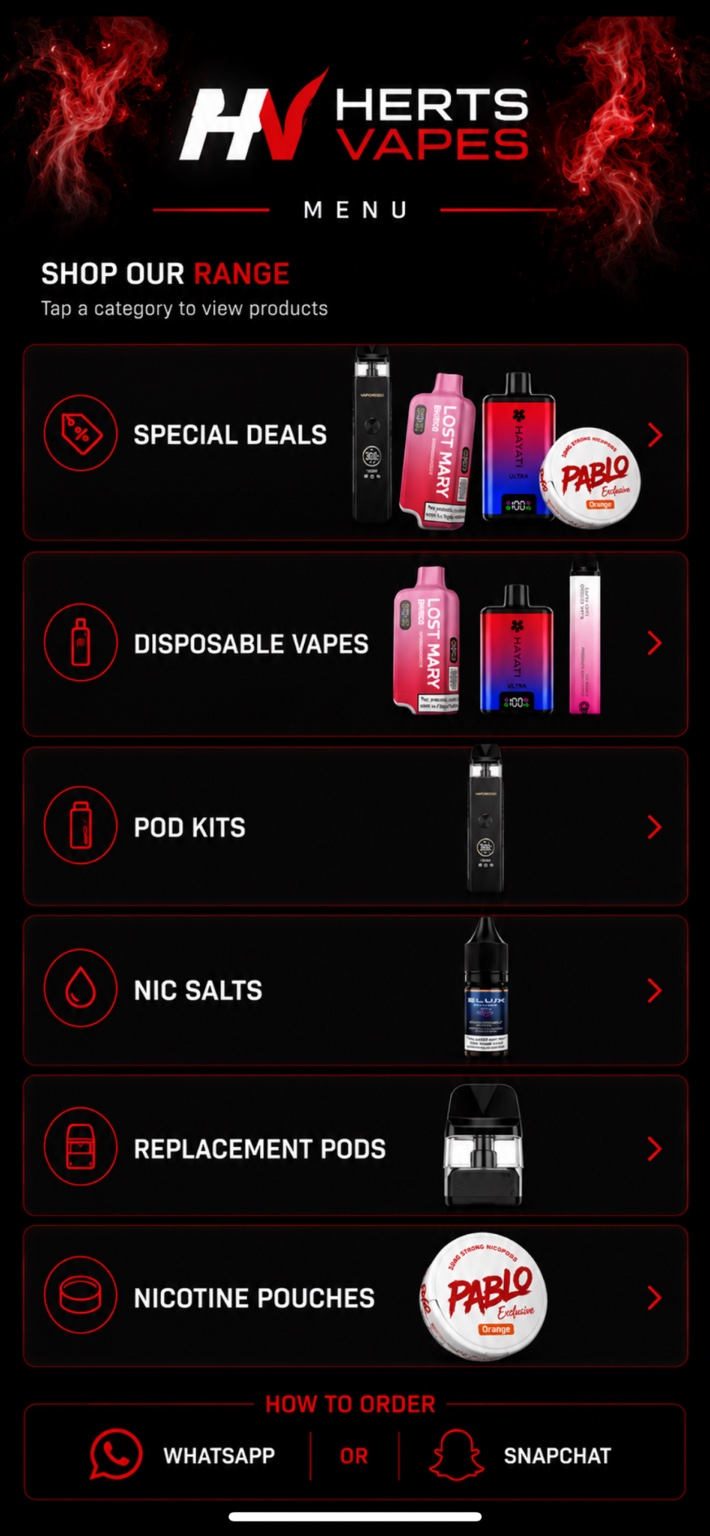
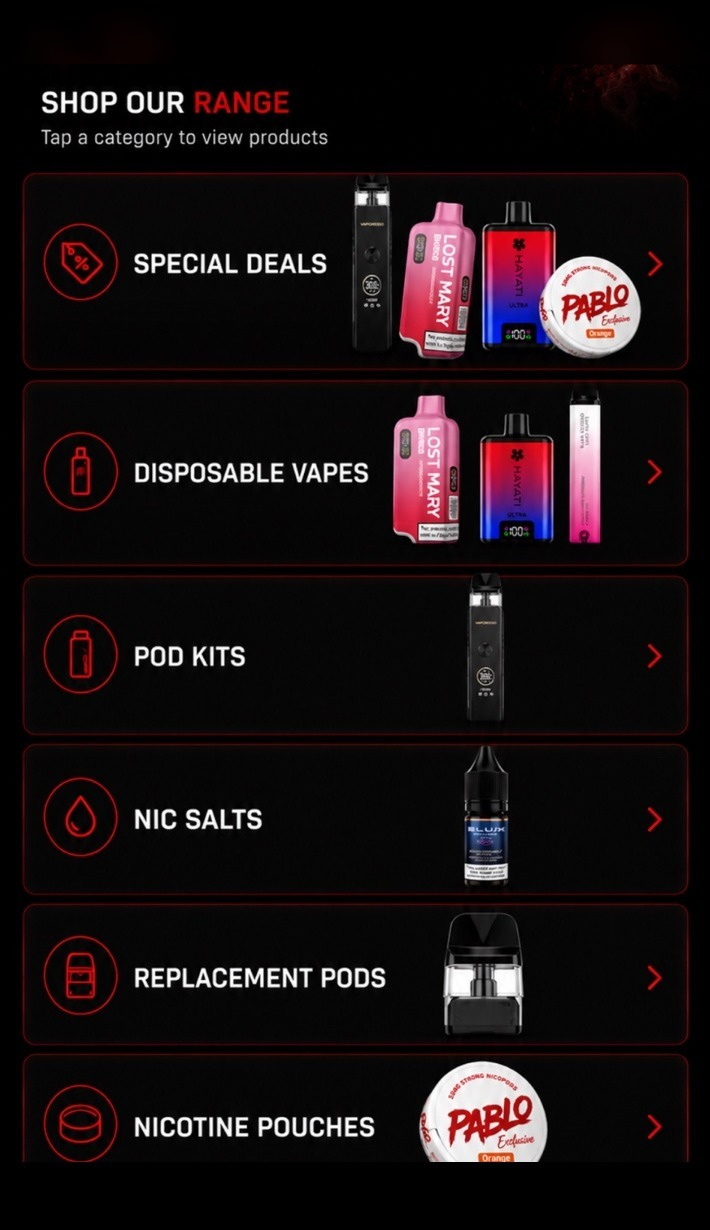
Add files via upload

diff --git a/style.css b/style.css
@@ -1780,188 +1780,126 @@ button, a {
 
 
 /* ==============================
-   Herts Vapes Version 3.4
-   Stability fixes + cleaner order flow
+   Herts Vapes V3.4 final polish
+   Clean menu artwork + stronger order flow
    ============================== */
 
-/* Critical fix: long flavour lists such as the 25 Nic Salts must never be clipped on mobile. */
-.product-card.open .expand-content {
-  max-height: 2600px;
+.section-blend {
+  height: 8svh;
+  margin-top: -6svh;
+  margin-bottom: -2svh;
+  background:
+    radial-gradient(circle at 50% 0%, rgba(226,21,33,.16), transparent 46%),
+    linear-gradient(180deg, rgba(2,2,2,0), rgba(2,2,2,.82) 54%, #020202 100%);
 }
 
-/* Keep HV Bulk as a low-friction menu-only route, not a full visible section. */
+.menu-visual {
+  margin-top: -1svh;
+  opacity: .42;
+  transform: translateY(8px) scale(.995);
+  filter: brightness(.70) saturate(.90);
+}
+
+.menu-visual.reveal {
+  opacity: 1;
+  transform: translateY(0) scale(1);
+  filter: brightness(1) saturate(1);
+}
+
+/* Remapped against the cleaned menu.jpg artwork. */
+.category-hit {
+  left: 3%;
+  width: 94%;
+  height: 10.8%;
+  border-radius: 23px;
+}
+.category-hit.special { top: 17.7%; }
+.category-hit.disposable { top: 34.9%; }
+.category-hit.podkits { top: 49.7%; }
+.category-hit.salts { top: 63.0%; }
+.category-hit.pods { top: 75.7%; }
+.category-hit.pouches { top: 87.6%; }
+
+/* The cleaned menu artwork no longer has WhatsApp/Snapchat buttons at the bottom. */
+.menu-whatsapp,
+.menu-snapchat {
+  display: none;
+}
+
 .bulk-menu-entry {
-  padding: 4px 16px 20px;
-}
-
-.bulk-category-button {
-  border-color: rgba(255,37,49,.34);
-  background:
-    radial-gradient(circle at 94% 0%, rgba(255,37,49,.14), transparent 36%),
-    linear-gradient(180deg, rgba(255,255,255,.038), rgba(255,255,255,.010));
-  box-shadow: 0 12px 28px rgba(0,0,0,.28), 0 0 10px rgba(226,21,33,.045);
-}
-
-/* Hide the duplicate logo area on the menu artwork without moving the image or hotspot map. */
-.menu-visual::before {
-  content: "";
-  position: absolute;
-  left: 0;
-  right: 0;
-  top: 0;
-  height: 19.5%;
-  z-index: 2;
-  pointer-events: none;
-  background:
-    radial-gradient(circle at 50% 18%, rgba(226,21,33,.10), transparent 38%),
-    linear-gradient(180deg, #020202 0%, #020202 66%, rgba(2,2,2,.72) 86%, rgba(2,2,2,0) 100%);
-}
-
-/* Make sure category/ordering hotspots stay above the visual logo cover. */
-.menu-visual .hotspot {
-  z-index: 3;
-}
-
-/* Cleaner specialist bulk panel. */
-.bulk-panel-card {
-  text-align: left;
-  padding: 28px 20px 22px;
-  background:
-    radial-gradient(circle at 92% 0%, rgba(255,37,49,.18), transparent 42%),
-    linear-gradient(180deg, rgba(255,255,255,.052), rgba(255,255,255,.014));
-}
-
-.bulk-panel-card h3 {
-  margin-left: 0;
-  margin-right: 0;
-  font-size: 28px;
-}
-
-.bulk-panel-card .bulk-button {
-  max-width: none;
-  text-align: center;
-}
-
-.empty-cart {
-  padding: 26px 8px;
-}
-
-/* ==============================
-   Herts Vapes V3.4.1 corrections
-   Fixes from live check: no messy menu-logo cover, subtle HV Bulk trigger, true 2-column flavour lists
-   ============================== */
-
-/* Do NOT cover the menu artwork with a fake block. Until menu.jpg is edited properly,
-   the original menu logo is safer and cleaner than a visible cover patch. */
-.menu-visual::before {
-  content: none !important;
-  display: none !important;
-}
-
-/* HV Bulk should not feel like a full section for normal customers. Keep only a small specialist trigger. */
-.bulk-menu-entry {
-  padding: 8px 16px 18px !important;
+  padding: 12px 16px 24px;
   background: #020202;
 }
 
 .bulk-category-button {
-  display: flex;
-  align-items: center;
-  justify-content: space-between;
-  gap: 12px;
-  min-height: 54px;
-  border-radius: 18px !important;
-  padding: 13px 14px !important;
-  border-color: rgba(255,255,255,.10) !important;
-  background: rgba(255,255,255,.025) !important;
-  box-shadow: none !important;
-}
-
-.bulk-category-button .bulk-kicker {
-  margin: 0 !important;
-  padding: 5px 8px !important;
-  border-color: rgba(255,37,49,.28) !important;
-  background: rgba(226,21,33,.08) !important;
-  font-size: 10px !important;
-  letter-spacing: .12em !important;
-  white-space: nowrap;
+  min-height: 68px;
+  border-radius: 20px;
+  border-color: rgba(255,37,49,.42);
+  background:
+    radial-gradient(circle at 92% 0%, rgba(226,21,33,.14), transparent 38%),
+    linear-gradient(180deg, rgba(255,255,255,.045), rgba(255,255,255,.012));
+  box-shadow: 0 12px 30px rgba(0,0,0,.32), inset 0 0 0 1px rgba(226,21,33,.08);
 }
 
 .bulk-category-button strong {
-  flex: 1 1 auto;
-  font-size: 14px !important;
-  letter-spacing: .02em !important;
-  line-height: 1.1 !important;
-  text-transform: uppercase;
+  font-size: 18px;
 }
 
 .bulk-category-button em {
-  display: none !important;
+  font-size: 12px;
 }
 
-.bulk-category-button::after {
-  content: "›";
-  color: var(--red-bright);
-  font-size: 24px;
-  line-height: 1;
-  font-weight: 900;
-}
-
-/* Keep the HV Bulk content as a dedicated clicked panel with a slightly more professional tone. */
-.bulk-panel-card {
-  text-align: left !important;
-  border-color: rgba(255,37,49,.46) !important;
-  background:
-    radial-gradient(circle at 100% 0%, rgba(255,37,49,.16), transparent 34%),
-    linear-gradient(180deg, rgba(255,255,255,.050), rgba(255,255,255,.014)) !important;
-}
-
-.bulk-panel-card h3 {
-  margin-left: 0 !important;
-  margin-right: 0 !important;
-  max-width: none !important;
-  font-size: 28px !important;
-}
-
-.panel-bulk-points {
-  max-width: none !important;
-}
-
-.bulk-panel-card .bulk-button {
-  margin-left: 0 !important;
-  margin-right: 0 !important;
-  max-width: none !important;
-  text-align: center;
-}
-
-/* Products with lots of flavours should stay in two columns on mobile as requested. */
+/* Keep long flavour lists compact and visible. */
 .flavour-list.two-col {
-  grid-template-columns: 1fr 1fr !important;
-  column-gap: 10px !important;
-  row-gap: 8px !important;
+  grid-template-columns: repeat(2, minmax(0, 1fr));
+  column-gap: 11px;
+  row-gap: 7px;
 }
 
 .flavour-list.two-col .add-flavour {
-  min-height: 46px;
-  align-items: flex-start;
-  gap: 7px;
+  min-height: 44px;
   font-size: 12.5px;
-  line-height: 1.15;
-  padding: 9px 0;
+  line-height: 1.18;
 }
 
 .flavour-list.two-col .add-flavour span {
-  font-size: 9.5px;
-  letter-spacing: .08em;
-  padding-top: 2px;
+  font-size: 10px;
 }
 
-@media (max-width: 360px) {
+.product-card.open .expand-content {
+  max-height: 1800px;
+}
+
+/* Make the cart easier to notice without blocking the menu. */
+.cart-float {
+  right: max(18px, env(safe-area-inset-right));
+  bottom: calc(22px + env(safe-area-inset-bottom));
+  width: 66px;
+  height: 66px;
+  border-color: rgba(255,37,49,.78);
+  box-shadow: 0 20px 44px rgba(0,0,0,.55), 0 0 28px rgba(226,21,33,.30);
+}
+
+.cart-float.has-items {
+  box-shadow: 0 22px 48px rgba(0,0,0,.58), 0 0 34px rgba(226,21,33,.42);
+}
+
+.empty-cart {
+  line-height: 1.55;
+}
+
+@media (max-width: 420px) {
   .flavour-list.two-col {
-    column-gap: 8px !important;
+    grid-template-columns: repeat(2, minmax(0, 1fr));
+    column-gap: 9px;
   }
 
   .flavour-list.two-col .add-flavour {
-    font-size: 11.6px;
+    font-size: 12px;
+  }
+
+  .cart-float {
+    width: 64px;
+    height: 64px;
   }
 }

diff --git a/script.js b/script.js
@@ -98,13 +98,13 @@ const inventory = {
   bulk: {
     title: "HV Bulk",
     type: "bulk",
-    intro: "For larger orders, reserved stock and better prices.",
+    intro: "Save big on larger pre-orders.",
     points: [
       "Manufacturer-sealed boxes",
-      "Wider range than the everyday menu",
-      "Reserved specifically for your order"
+      "A much wider range than our in-stock menu",
+      "Reserved exclusively for your order"
     ],
-    minimum: "Bulk pre-orders available from £100.",
+    minimum: "Available on bulk pre-orders from £100.",
     link: "https://wa.me/447885752823?text=Hi%20Herts%20Vapes%2C%0A%0AI%27m%20interested%20in%20your%20bulk%20prices.%0A%0AProducts%20I%27m%20interested%20in%3A%0A%0A%E2%80%A2"
   }
 };
@@ -249,7 +249,7 @@ function renderBulkCategory(category) {
   return `
     <article class="bulk-panel-card">
       <p class="panel-eyebrow">HV BULK</p>
-      <h3>Wholesale & Large Orders</h3>
+      <h3>Save Big on Larger Orders</h3>
       <p class="bulk-intro">${escapeHtml(category.intro)}</p>
       <div class="bulk-points panel-bulk-points">
         ${category.points.map(point => `<div class="bulk-point">${escapeHtml(point)}</div>`).join("")}
@@ -419,31 +419,33 @@ function renderCart() {
 
 function buildOrderMessage() {
   if (!cart.length) {
-    return "Hi, I'd like to place an order.";
+    return "Hi,\n\nI'd like to place an order.\n\nCollection / Delivery:";
   }
 
-  const normalLines = cart
-    .filter(item => !item.prompts || !item.prompts.length)
-    .map(item => {
-      const optionPart = item.option ? ` - ${item.option}` : "";
-      return `• ${item.name}${optionPart} ×${item.qty}`;
-    });
+  const lines = cart.map(item => {
+    const optionLine = item.option ? ` - ${item.option}` : "";
+    return `• ${item.name}${optionLine} ×${item.qty}`;
+  }).join("\n");
 
-  const promptLines = cart
+  const promptSections = cart
     .filter(item => item.prompts && item.prompts.length)
-    .flatMap(item => {
-      const lines = [`• ${item.name} ×${item.qty}`];
+    .map(item => {
+      const header = `\n${item.name} ×${item.qty}`;
+      const promptLines = [];
       for (let i = 1; i <= item.qty; i += 1) {
-        if (item.qty > 1) lines.push(`  Bundle ${i}:`);
+        if (item.qty > 1) promptLines.push(`Bundle ${i}:`);
         item.prompts.forEach(prompt => {
-          lines.push(`${item.qty > 1 ? "  " : ""}${prompt}:`);
+          promptLines.push(`${prompt}:`);
         });
       }
-      return lines;
+      return `${header}\n${promptLines.join("\n")}`;
     });
 
-  const lines = [...normalLines, ...promptLines].join("\n");
-  return `Hi,\n\nI'd like:\n\n${lines}\n\nCollection / Delivery:`;
+  const promptText = promptSections.length
+    ? `\n${promptSections.join("\n")}`
+    : "";
+
+  return `Hi,\n\nI'd like:\n\n${lines}${promptText}\n\nCollection / Delivery:`;
 }
 
 async function copyOrderMessage() {
@@ -521,6 +523,6 @@ cartWhatsapp.addEventListener("click", async () => {
 cartSnapchat.addEventListener("click", async () => {
   softTap();
   await copyOrderMessage();
-  showToast("✓ Order copied. Paste it into Snapchat.");
+  showToast("✓ Order copied. Paste into Snapchat.");
   setTimeout(() => window.open("https://www.snapchat.com/add/herts.vps", "_blank"), 350);
 });

diff --git a/index.html b/index.html
@@ -43,11 +43,11 @@
       <a class="hotspot menu-snapchat" href="https://www.snapchat.com/add/herts.vps" aria-label="Order through Snapchat"></a>
     </section>
 
-    <section class="bulk-menu-entry" aria-label="HV Bulk category">
-      <button class="bulk-category-button" type="button" data-category="bulk">
+    <section class="bulk-menu-entry bulk-quiet-entry" aria-label="HV Bulk enquiries">
+      <button class="bulk-category-button bulk-quiet-button" type="button" data-category="bulk">
         <span class="bulk-kicker">HV BULK</span>
-        <strong>Bulk Pre-Orders</strong>
-        <em>From £100 • wider range available</em>
+        <strong>Bulk enquiries</strong>
+        <em>£100+ pre-orders</em>
       </button>
     </section>
 
@@ -99,7 +99,7 @@
           <p>Choose how you want to send your order.</p>
         </div>
         <div class="cart-actions send-actions">
-          <button class="order-button whatsapp" id="cartWhatsapp" type="button">Send Order</button>
+          <button class="order-button whatsapp" id="cartWhatsapp" type="button">WhatsApp</button>
           <button class="order-button snapchat" id="cartSnapchat" type="button">Snapchat</button>
         </div>
         <button class="cart-clear" id="cartClear" type="button">Clear cart</button>
